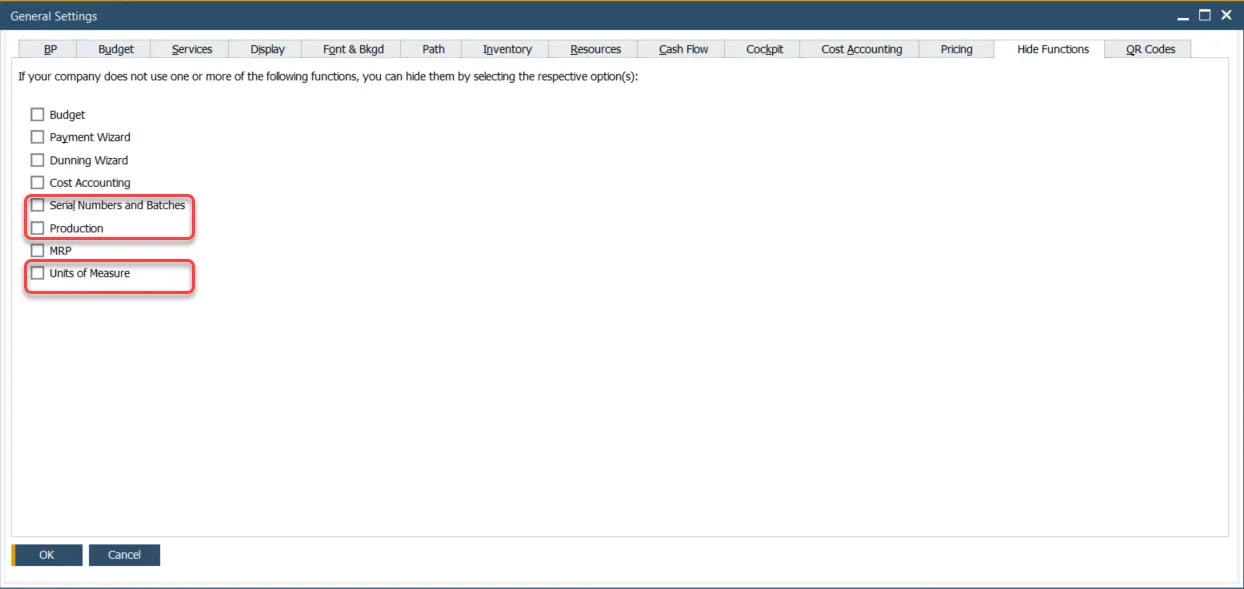
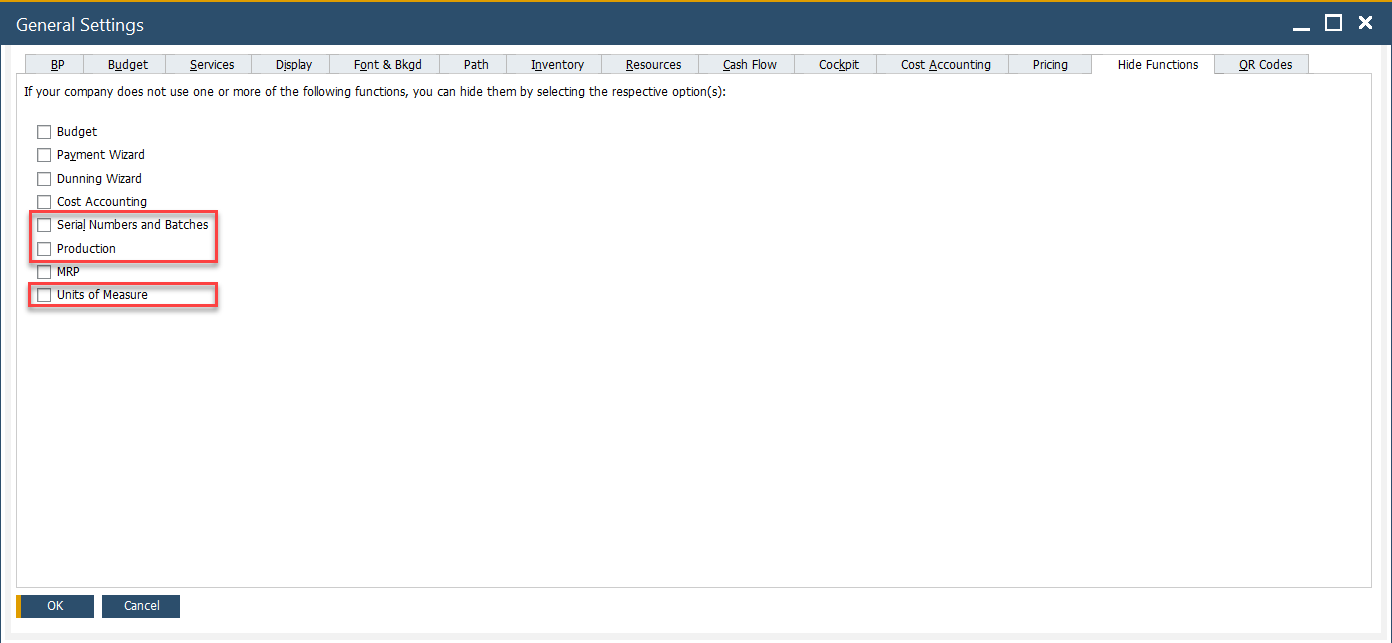
Update

Changed region(s): [[0.0, 0.0, 1.0, 1.0], [0.0, 0.1834, 0.1833, 0.5195]]

diff --git a/docs/processforce/releases/10.0-release-notes.md b/docs/processforce/releases/10.0-release-notes.md
@@ -11,6 +11,23 @@ ProcessForce Release Notes provide information on the major improvements and cha
 The latest Installer is available to download from [here](/docs/processforce/releases/download/).
 :::
 
+{/*
+
+## ProcessForce 10.0 Release 32
+
+**Release Date – 18 June 2025**
+
+| Issue Type | Component/s |Release Note |
+| --- | --- | --- |
+| Bug | Scheduling | In the Scheduling Planning tab, the "Update" button appears immediately upon viewing the resource, instead of showing "OK" initially and switching to "Update" only after changes are made. |
+| Bug | Scheduling | In the Scheduling Board, tasks cannot be dragged to alternative resources, and when dragged, the setup time incorrectly defaults to zero instead of reflecting the configured value. |
+| Bug | Scheduling | Labor resources along with their time allocations are displayed in the Gantt chart even though they are not included in the scheduling. |
+| Bug | Common functions | Issues encountered when using the "Support" user to work on ProcessForce. |
+| Bug | MRP 2.5 | Issues with consumption of the existing stock in MRP 2.5 |
+| bUG | MRP 2.5 | In MRP 2.5, planning results are incorrect when cumulative lead time is considered; results are accurate only when "Ignore Cumulative Lead Time" is selected. |
+
+*/}
+
 ## ProcessForce 10.0 Release 31
 
 **Release Date – 20 May 2025**
@@ -31,7 +48,7 @@ The latest Installer is available to download from [here](/docs/processforce/rel
 | Bug | Manufacturing Order, Scheduling | During Resource Balancing operations, the order of resources displayed in the system does not match the intended sequence defined in the production process or routing. |
 | Bug | Production Costing | Global Price Change in Item Master Data for Non-Inventory Items does not trigger synchronization to Item Costing 000. |
 
-## ## ProcessForce 10.0 Release 30
+## ProcessForce 10.0 Release 30
 
 **Release Date – 04 March 2025**
 
@@ -131,7 +148,7 @@ The latest Installer is available to download from [here](/docs/processforce/rel
 | Bug | MRP 2.5 | Minimum and Maximum Inventory Levels is not considered in MRP Run without Demand Document |
 | Bug | Manufacturing Order | Error while creating Goods Issue (GI) - "Re-throwing couldn't issue to production. AA0001-01000 (code00), 0." |
 | Bug | Sub-contracting | Error during auto-creation of Purchase Order for External Manufacturing Order (MO) |
-| Bug | Plant Maintenance – Maintenable Item | Issues with maintainable item: The list to choose is empty for aspect & point in add mode |
+| Bug | Plant Maintenance – Maintainable Item | Issues with maintainable item: The list to choose is empty for aspect & point in add mode |
 | Bug | Time Bookings | Resource not available in time booking when the time is lesser than a minute |
 | Bug | Manufacturing Order | Error message when attempting to set the default document series during the Goods Issue (GI) process: "An error occurred while trying to set the default document series. Journal Series have no series with Id = 0. Available document series: \{Primary\}(Id=17)." |
 | Bug | Bill of Materials | Error Encountered While Restoring BOM - "Update BOM has Failed for Item 40. Error: ProductTreeAddError" |
@@ -249,7 +266,7 @@ The latest Installer is available to download from [here](/docs/processforce/rel
 | --- | --- | --- | --- |
 | Improvement | Quality Control | Quality Control Test Report: DocNum is now displayed in the QCT Number column (instead of QC DocEntry). | SPROC-14612 |
 | Improvement | Subcontracting | New General Settings option: PO Delivery date source (Required Date, Planned Start Date, Planned End Date). | SPROC-13744 |
-| Bug | Installer | An error occurs upon attempts to install Processforce on a new database with the Portuguese language selected by default. | – |
+| Bug | Installer | An error occurs upon attempts to install ProcessForce on a new database with the Portuguese language selected by default. | – |
 | Bug | Installer | An error occurs upon installation of ProcessForce 10.0 R20 on a database with Database Version 4.4446 or earlier (or CT_PF_GetClassificationForDocument and CT_PF_GetClassificationForRecommendation functions have been removed manually from the current database before installing PF). <br/><br/>Error message: <blockquote>Errors occurred while installing ProcessForce: <br/>1: CT_PF_GetClassificationForDocument 1. (SAP AG) LIBODBCHDB DLL HDBODBC General error;328 invalid name of function or procedure: "SBODEMOBR"."CT_PF_INSTALL": line 4 col 8 (at pos 73): CT_PF_GetClassificationForRecommendation: line 99 col 17 (at pos 2965)</blockquote> | SPROC-14820 |
 | Bug | Licensing, SAP Business One | Cannot open any ProcessForce form after upgrading SAP Business One to 10.0 FP 2305 due to the following system message: <br/><br/><blockquote>Selected user does not have assigned required SAP Business One license</blockquote>. | SPROC-14932 |
 | Bug | Operations | Production Process, Routings and Resource Properties form: Operation name is not displayed in the combo box (only Operation Number). | – |
@@ -478,7 +495,7 @@ Due to major changes to the Costing mechanism, the following conditions have to 
 | --- | --- | --- | --- |
 | Improvement | Batches | Goods Receipt PO, Batch – Setup: upon adding a Batch, the highlight moves to the Origin column (instead of Batch) | SPROC-13168 |
 | Improvement | Bill of Materials, Manufacturing Order | A blockage of usage of Drop-Ship Warehouses in Bill of Materials and Manufacturing Orders | - |
-| Improvement | Manufacturing Order | Now clicking setup or run in Computec PDC causes for: <br/><br/>MOR Header Status – if MOR has a Released status then we update to Started, <br/><br/>MOR Operation – if the operation has a Not Started status then we update to Started |- |
+| Improvement | Manufacturing Order | Now clicking setup or run in CompuTec PDC causes for: <br/><br/>MOR Header Status – if MOR has a Released status then we update to Started, <br/><br/>MOR Operation – if the operation has a Not Started status then we update to Started |- |
 | Improvement | Production Costing | Cost Roll-Up: a checkbox description changed – from 'Calculate and save Costed BOM data' to 'Update Static Costed BOM version' | - |
 | Improvement | Production Costing | Cost Roll-Up: the 'Update Static Costed BOM version' checkbox is now checked by default | - |
 | Improvement | Production Costing | Standard Price in Item Costing is now updated after an Inventory Revaluation document is created | - |
@@ -500,7 +517,7 @@ Due to major changes to the Costing mechanism, the following conditions have to 
 | Bug | Manufacturing Order | Pick Receipt Serial numbers: the Revision column is not available | - |
 | Bug | Manufacturing Order | Pick Order, Serial Number Selection, Selected Serial Numbers: the Revision column is not available | - |
 | Bug | Manufacturing Order | When performing an issue for Operation, the related Pick Order contains the items bound to the Operation using operation binding. Still, the quantity is the planned quantity mentioned in the Items tab | SPROC-12953 |
-| Bug | Manufacturing Order | Recalculating leadtime in a Manufacturing Order in ProcessForce for a task recorded in CompuTec PDC causes an error in specific cases. Example error message: The given key was not present in the dictionary. - Opr:01 RtgOpr:1 | - |
+| Bug | Manufacturing Order | Recalculating lead time in a Manufacturing Order in ProcessForce for a task recorded in CompuTec PDC causes an error in specific cases. Example error message: The given key was not present in the dictionary. - Opr:01 RtgOpr:1 | - |
 | Bug | Manufacturing Order, Time Bookings | SAP Business One crashes upon multiple Time Bookings on the same Manufacturing Order | SPROC-11374 |
 | Bug | MRP | Time calculation error when Raw Materials' Lead Time is overdue (when Ignore Cumulative Lead Time option is disabled) | - |
 | Bug | Other | An error occurs upon attempts to install ProcessForce in an SQL version. Error message: FixBOM16Tools: Incorrect syntax near the keyword 'as' | - |
@@ -554,7 +571,7 @@ Due to major changes to the Costing mechanism, the following conditions have to 
 | Improvement | Items | Stock Counting of Serial Numbers managed Items by Revision set in the related Item Details. | – |
 | Improvement | PM - Maintenance Order | It is now possible to leave the Priority field empty in Checkpoint Template, Task Template, MO Template, and MO (in such a case, Priority from the follow-up MO Template is considered. If Priority in follow-up's MO Template is empty, low priority is used). | SPROC-12508 |
 | Bug | API | An error occurs upon an upgrade of an SQL database during ProcessForce installation. <br/><br/>Error message: <blockquote>SQL Server limitation for row data length (8060 bytes) (-2110)</blockquote> | – |
-| Bug | API | An error occurs upon attempts to install ProcessForce on a MS SQL database. <br/><br/>Error message:  <blockquote>A problem occures while installing DB script F: CT_PF_MRPLinksDocActQty An unknown error occurred: 1). `[Microsoft][ODBC Driver 13 for SQL Server][SQL Server]`The multi-part identifier "l2.Quantity" could not be bound. 2). `[Microsoft][ODBC Driver 13 for SQL Server][SQL Server]`The multi-part identifier</blockquote> | - |
+| Bug | API | An error occurs upon attempts to install ProcessForce on a MS SQL database. <br/><br/>Error message:  <blockquote>A problem occurs while installing DB script F: CT_PF_MRPLinksDocActQty An unknown error occurred: 1). `[Microsoft][ODBC Driver 13 for SQL Server][SQL Server]`The multi-part identifier "l2.Quantity" could not be bound. 2). `[Microsoft][ODBC Driver 13 for SQL Server][SQL Server]`The multi-part identifier</blockquote> | - |
 | Bug | API | An error occurs upon attempts to install ProcessForce. <br/><br/>Error message: <blockquote>Error while updating UDO CompuTec.ProcessForce.Database.Tables.ItemDetails.RevisionsHelper.ItemRevisionsTable Exception message: [OUDO.TableName] , 'There are values in table @CT_PF_OREV'</blockquote> | - |
 | Bug | API | Pick Receipt: Expiration date is not filled in in Serial Number Transaction Report (from a Goods Receipt) even though it has been set in the related Pick Receipt Serials Numbers form (of the related Pick Receipt). | SPROC-12705 |
 | Bug | API, Licensing | ProcessForce API does not allow to use of the Batch generator in CompuTec WMS for users with an Indirect Access license. | - |
@@ -598,7 +615,7 @@ Due to major changes to the Costing mechanism, the following conditions have to 
 | Improvement | Planning, Resources | More comprehensive and informative system messages displayed upon Production Process and Manufacturing Order validation when using Resource Balancing. | - |
 | Improvement | Quality Control | New fields on Quality Control Test Result report: Creation Date, Item description, Sample Size, Batch Number. | SPROC-11328 |
 | Improvement | Serial Numbers | Serial Numbers – Setup: Revision Code and Revision Description are automatically filled upon adding a new row. | – |
-| Bug | API | Cannot upload Item Details Attachments using Powershell. | – |
+| Bug | API | Cannot upload Item Details Attachments using PowerShell. | – |
 | Bug | API, Batches |ProcessForce API blocks using Batch generator in CompuTec WMS for support users. | – |
 | Bug | Batches | Item Details: when the Inherit from Item Group checkbox is checked, the displayed data does not match the inherited (from the Item Group or General Settings level) values. | – |
 | Bug | Batches | Pick Receipt Batches – setup: Batch data is not generated automatically when the Batch is added manually. | SPROC-12580 |
@@ -839,7 +856,7 @@ If you are upgrading from a version lower than 10.0 R8 to 10.0 R8 or higher, ple
 
 | Issue Type | Component/s |Release Note | Related Support Ticket(s)\* |
 | --- | --- | --- | --- |
-| Bug | Manufacturing Order | Missmatch beetwen sequences in HANA and SAP view (CT_PF_OBOM, CT_PF_BOM1) causes an error upon adding a Manufacturing Order | – |
+| Bug | Manufacturing Order | Mismatch between sequences in HANA and SAP view (CT_PF_OBOM, CT_PF_BOM1) causes an error upon adding a Manufacturing Order | – |
 
 ---
 

diff --git a/docs/labels/setup/configuration/company-installation-and-configuration.md b/docs/labels/setup/configuration/company-installation-and-configuration.md
@@ -55,18 +55,18 @@ In this view, we define new printing rules. The printing rule defines an action 
 To define a new rule, right-click on the table and choose Add new rule.
 
 - **Requester**: The application requesting printing (SAP, WMS, or PDC).
-- **Transaction**: transaction on which a specific print occurs. By default, the following transactions are available: Delivery Note, Goods Receipt PO, Stock Transfer, Stock Transfer Request, Goods Return, Return, Item Master Data, Additional Batch Details, Storage Unit, Goods Issue, DraftGRPO.
-- **Document**: define whether the rule concerns all of the documents in the chosen transaction or just one (in this case, you must specify its document number).
-- **Employee**: the employee is defined in SAP Business One for whom this printing rule works. You can set up a specific one or all.
+- **Transaction**: Transaction on which a specific print occurs. By default, the following transactions are available: Delivery Note, Goods Receipt PO, Stock Transfer, Stock Transfer Request, Goods Return, Return, Item Master Data, Additional Batch Details, Storage Unit, Goods Issue, DraftGRPO.
+- **Document**: Define whether the rule concerns all of the documents in the chosen transaction or just one (in this case, you must specify its document number).
+- **Employee**: The employee is defined in SAP Business One for whom this printing rule works. You can set up a specific one or all.
 - **User**: SAP Business One for whom this printing rule works. You can set up a specific one or all.
-- **Item Group**: specify a particular item group or all.
-- **Card Group** – Business Partner type of a specific document. You can choose either Customers or Suppliers.
-- **Branch**: define which company branch the rule applies to.
-- **WHSCode**: code of a Warehouse for which the rule works
+- **Item Group**: Specify a particular item group or all.
+- **Card Group**: Business Partner type of a specific document. You can choose either Customers or Suppliers.
+- **Branch**: Define which company branch the rule applies to.
+- **WHSCode**: Code of a Warehouse for which the rule works:
         - Unit of Measure
         - Header
         - Ignore All Others
-- **Template** – assign a printing template to the rule.
+- **Template**: Assign a printing template to the rule.
 
 ## Mapping Parameters View
 
@@ -107,16 +107,16 @@ In this view, we define the action of which Employee printing will proceed.
 
 These rules are called event triggers. To add a new one:
 
-1. Right-click on the table and choose Add.
+1. Right-click on the table and choose "Add".
 2. Specify the employee and department for which the rule will be valid (you can select "All" for both values).
 3. Choose the Object Type for which the rule is set.
 4. In columns SAP, PDC, WMS, and PF, you can choose an action for a specific application with which CompuTec Labels is connected. You can choose the following actions:
 
-    - **OnChange**: printing starts on the update of a document
-    - **Add**: printing starts with the addition of a document
-    - **NoAction**: no action is taken automatically; you have to choose the right option from the application to start printing
+    - **OnChange**: Printing starts on the update of a document.
+    - **Add**: Printing starts with the addition of a document.
+    - **NoAction**: No action is taken automatically; you have to choose the right option from the application to start printing.
 
-5. Click Update to save changes.
+5. Click "Update" to save changes.
 
 :::note
     Event Triggers are considered in CompuTec products: SAP CompuTec Labels add-on, CompuTec WMS, CompuTec PDC, and ProcessForce. You can print only from objects defined in this table in these products.

diff --git a/docs/labels/index.md b/docs/labels/index.md
@@ -2,7 +2,7 @@
 sidebar_position: 1
 ---
 
-# Introduction to Labels
+# Introduction to CompuTec Labels
 
 Welcome to the CompuTec Labels documentation space. On this page, you can find basic, first-encounter information about the application. For more detailed information, please check the rest of the documentation.
 
@@ -26,15 +26,14 @@ The solution is highly customizable and can be tailored to accommodate a wide ra
 
 ---
 
-- Choose a company – all SAP Business One installation companies are available. The application settings are set up for a specific database
-- Create a printing rule (template is assigned to it) - here, you can define in which situations it is possible to print a label. A number of settings are available.
-- Setting up trigger events – printing can be run using a proper option from a requester application (manual printing). We can also set up a trigger event, e.g., printing on a document add or update
-- Mapping table – what information would we like to have on a print
-
----
-
-- Logs and Requests – you can check logs of every operation performed on the application from its level. You can also contain a list of all the requests to the application.
+- **Choose a company**: All SAP Business One installation companies are available. The application settings are set up for a specific database.
+- **Create a printing rule (template is assigned to it)**: Here, you can define in which situations it is possible to print a label. A number of settings are available.
+- **Setting up trigger events**: Printing can be run using a proper option from a requester application (manual printing). We can also set up a trigger event, e.g., printing on a document add or update
+- **Mapping table**: What information would we like to have on a print.
+- **Logs and Requests**: You can check logs of every operation performed on the application from its level. You can also contain a list of all the requests to the application.
 
 ## Installation and Usage
 
 Here, you can watch a video with a comprehensive description of the [application's installation and options](https://www.youtube.com/watch?v=S5urmvsi-M0)
+
+---

diff --git a/docs/labels/setup/other-functions.md b/docs/labels/setup/other-functions.md
@@ -8,22 +8,22 @@ This section provides an overview of additional utilities that enhance the appli
 
 ---
 
-## Logs Tab
+## Logs tab
 
 ![Log](./media/other-functions/ct-labels-logs.webp)
 
-The Logs Tab provides a log viewer for tracking system events. Users can select a specific date and logging source (service, installaxtion, or manager) to review relevant logs. On the right side, there are quick options for exporting logs to a file for further analysis.
+The Logs tab provides a log viewer for tracking system events. Users can select a specific date and logging source (service, installation, or manager) to review relevant logs. On the right side, there are quick options for exporting logs to a file for further analysis.
 
-## Requests Tab
+## Requests tab
 
 ![Requests](./media/other-functions/ct-labels-requests.webp)
 
-The Requests Tab displays database requests from `CT_LP_Requests`. Users can filter requests by date (up to 100 entries), company, requester, status, transaction type, and printer.
+The Requests tab displays database requests from `CT_LP_Requests`. Users can filter requests by date (up to 100 entries), company, requester, status, transaction type, and printer.
 
 Right-clicking on a request provides additional options:
 
-- **Resend Request**: creates a new request.
-- **Retry Request**: attempts to re-run the exact request, changing its status to "C."
+- **Resend Request**: Creates a new request.
+- **Retry Request**: Attempts to re-run the exact request, changing its status to "C."
 
     ![Retry](./media/other-functions/ct-labels-retry.webp)
 
@@ -31,7 +31,7 @@ Users can also view detailed request parameters, information, and error logs by 
 
     ![Request Details](./media/other-functions/ct-labels-request-details.webp)
 
-## Customising Output Path and File Name
+## Customizing Output Path and File Name
 
 Crystal Printer offers a flexible way to generate and save print outputs as PDF files. By leveraging dynamic parameters and customizable paths, users can streamline their label printing process, ensuring efficient organization and easy retrieval of files.
 

diff --git a/docs/labels/setup/configuration/general-configuration.md b/docs/labels/setup/configuration/general-configuration.md
@@ -21,28 +21,35 @@ The following steps outline how to configure the service. The order of execution
 <div>
 1. Open: Control Panel > System and Security > Windows Firewall:
 
-  ![Windows Firewall](./media/general-configuration/windows-firewall.png)
+    ![Windows Firewall](./media/general-configuration/windows-firewall.png)
+
 2. Click the Advanced settings:
 
-  ![Advanced Settings](./media/general-configuration/advanced-settings.png)
+    ![Advanced Settings](./media/general-configuration/advanced-settings.png)
+
 3. Select Inbound Rules and choose New Rule... in the Actions window - this runs New Inbound Rule Wizard:
 
-  ![Inbound Rules](./media/general-configuration/inbound-rules.png)
+    ![Inbound Rules](./media/general-configuration/inbound-rules.png)
+
 4. Choose Port as the rule type:
 
-  ![Port](./media/general-configuration/port.png)
+    ![Port](./media/general-configuration/port.png)
+
 5. Choose TCP protocol and specify 33006 local port:
 
-  ![Protocol and Ports](./media/general-configuration/protocol-and-ports.png)
+    ![Protocol and Ports](./media/general-configuration/protocol-and-ports.png)
+
 6. Choose Allow the connection action:
 
-  ![Allow the connection](./media/general-configuration/allow-the-connection.png)
+    ![Allow the connection](./media/general-configuration/allow-the-connection.png)
+
 7. Choose all profiles:
 
-  ![Profiles](./media/general-configuration/profiles.png)
+    ![Profiles](./media/general-configuration/profiles.png)
+
 8. Specify the rule name and click "Finish.":
 
-  ![Computec License Server](./media/general-configuration/computec-license-server.png)
+    ![Computec License Server](./media/general-configuration/computec-license-server.png)
 </div>
 </details>
 

diff --git a/docs/processforce/administrator-guide/installation/first-installation/extension.md b/docs/processforce/administrator-guide/installation/first-installation/extension.md
@@ -29,12 +29,9 @@ The ProcessForce Extension is a powerful tool that enhances the functionality of
 :::
 
 :::danger
-    Before beginning the installation, ensure that the Serial Numbers and Batches, Production, and Units of Measure options are unchecked in General Settings → Hide Functions, as shown in the screenshot below.
+    Before beginning the installation, ensure that the Serial Numbers and Batches, Production, and Units of Measure options are unchecked in General Settings → Hide Functions, as shown in the screenshot below:
 
-    <details>
-      <summary>Click here to expand</summary>
-      <div>![Checkboxes](./media/extension/general-settings-unchecked.webp)</div>
-    </details>
+        ![Checkboxes](./media/extension/general-settings-unchecked.webp)
 :::
 
 :::danger

diff --git a/docs/labels/setup/configuration/gathering-more-information.md b/docs/labels/setup/configuration/gathering-more-information.md
@@ -25,8 +25,8 @@ To access and modify these queries:
 
 You will find two query types:
 
-- **Add Query**: executes when a document is initially added to the system.
-- **Update Query**: executes when a document is updated in the system.
+- **Add Query**: Executes when a document is initially added to the system.
+- **Update Query**: Executes when a document is updated in the system.
 
 :::warning
     We recommend adding this new column in both queries.
